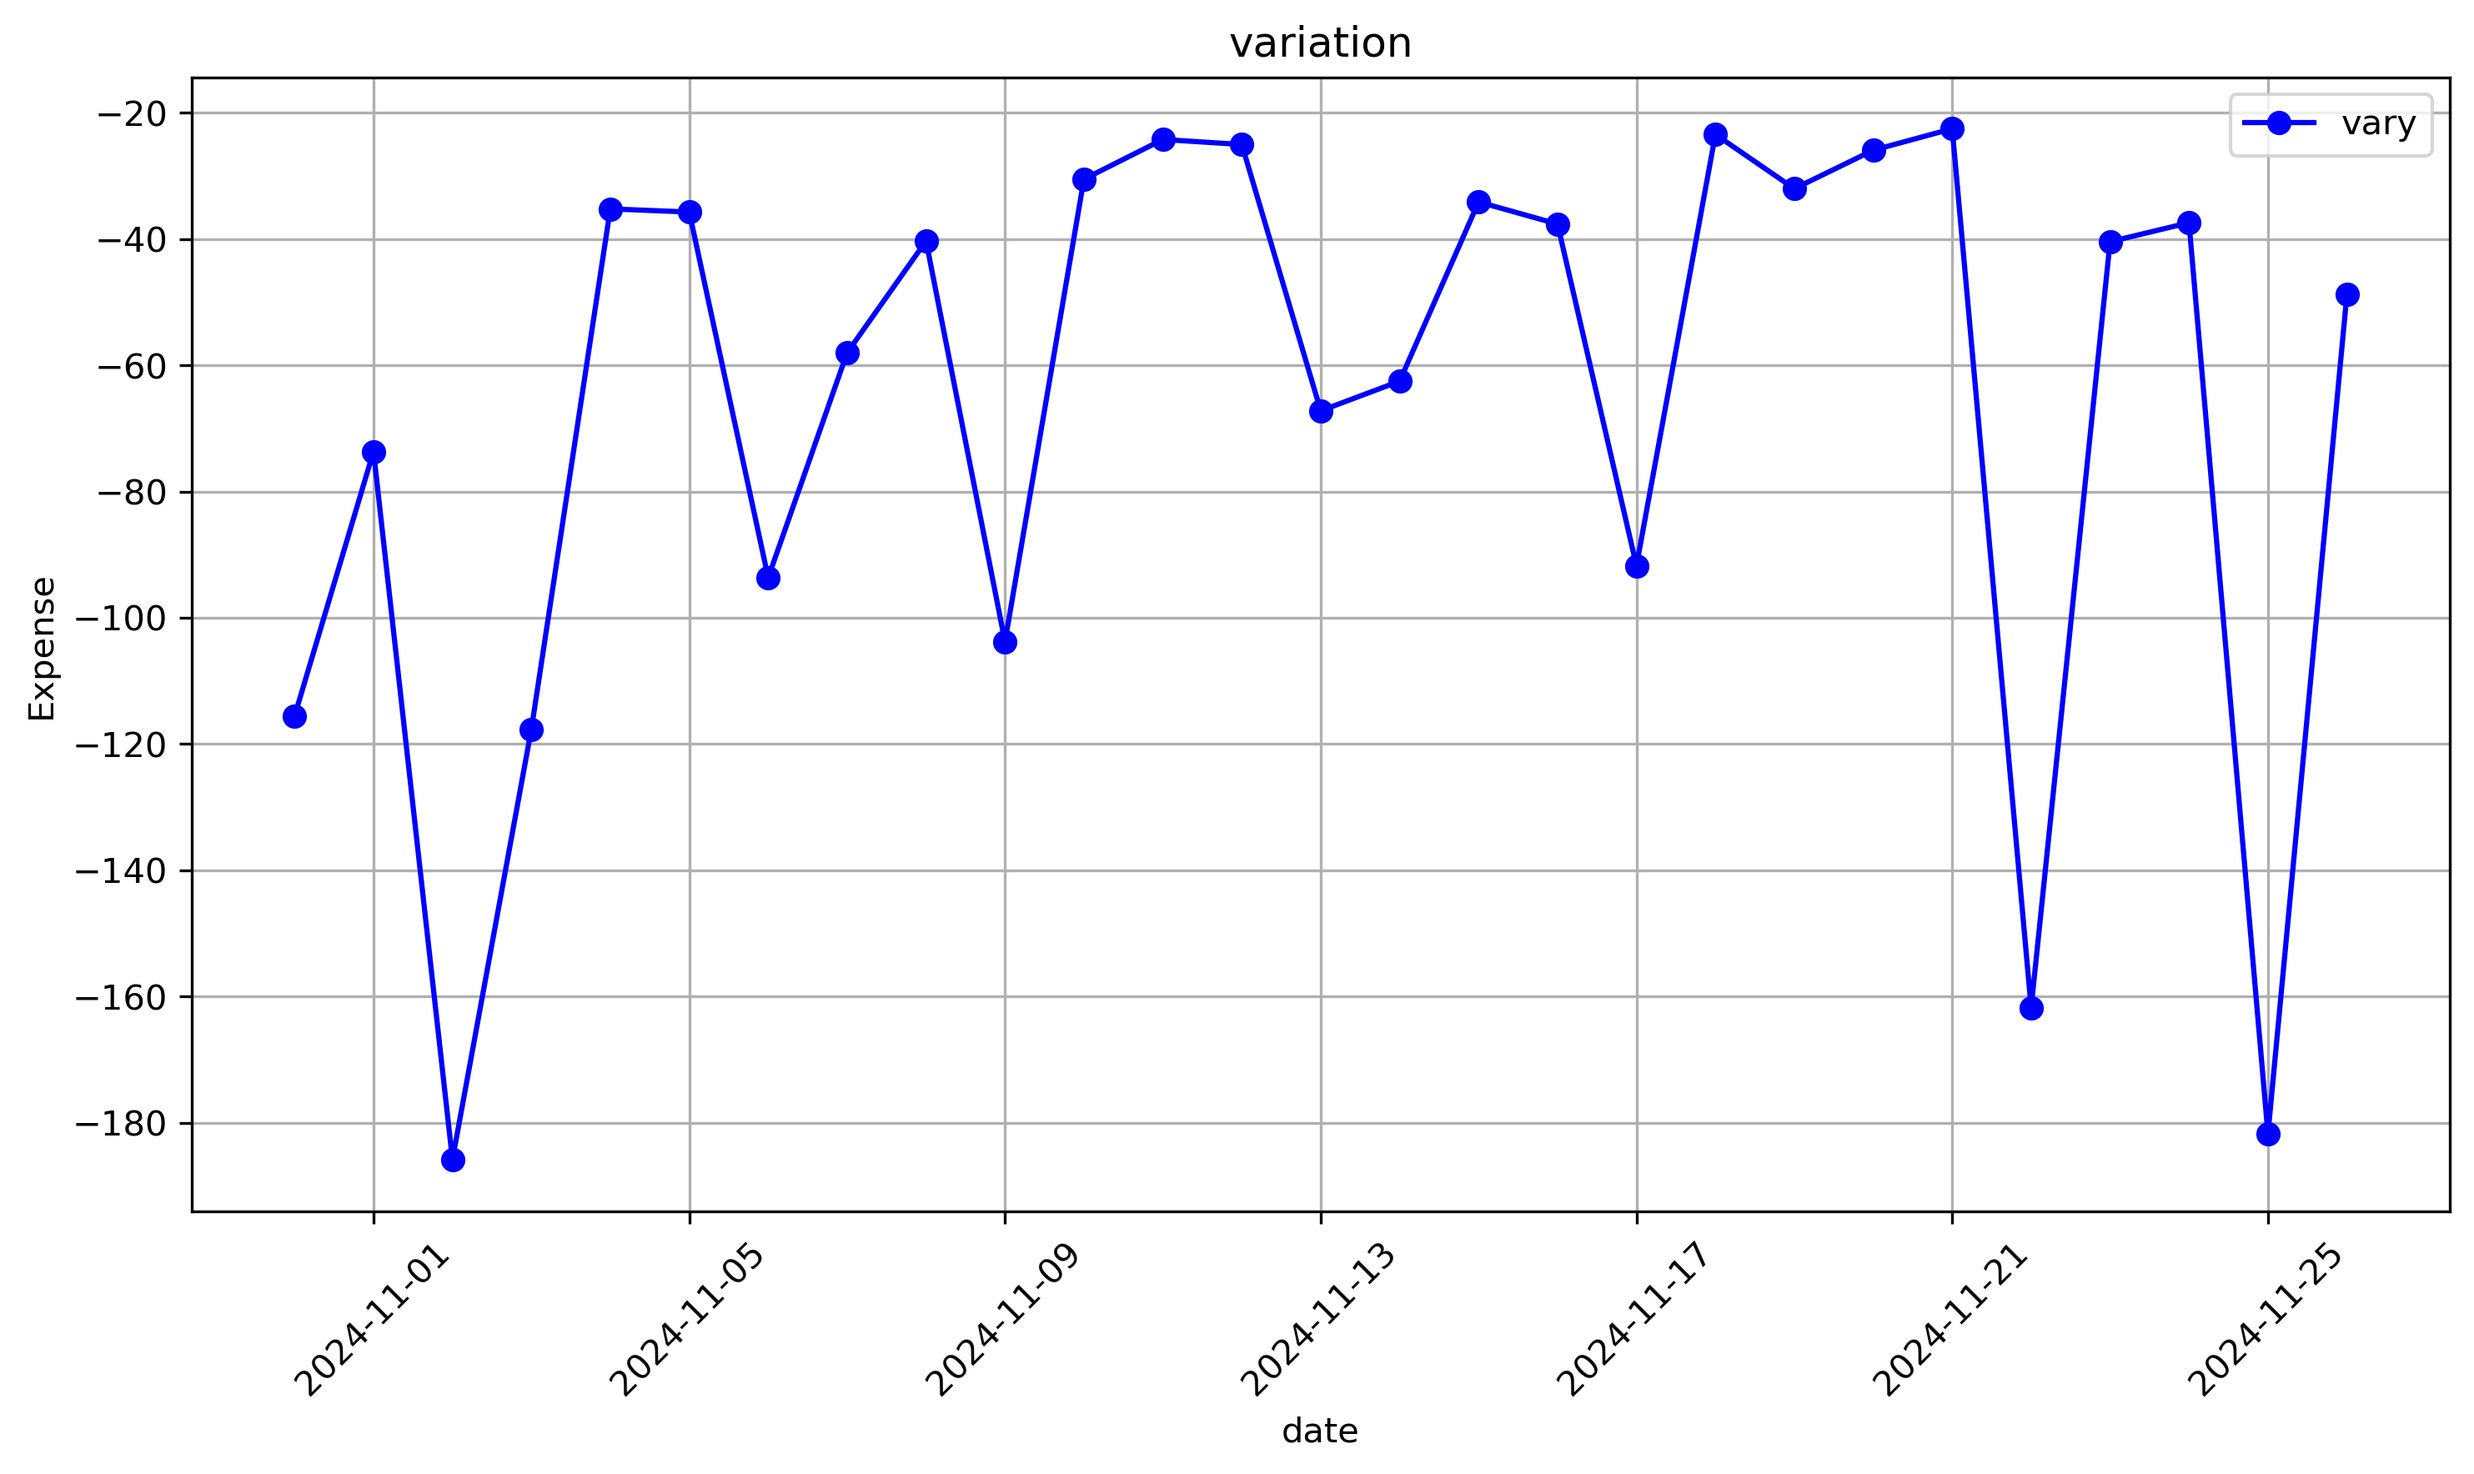
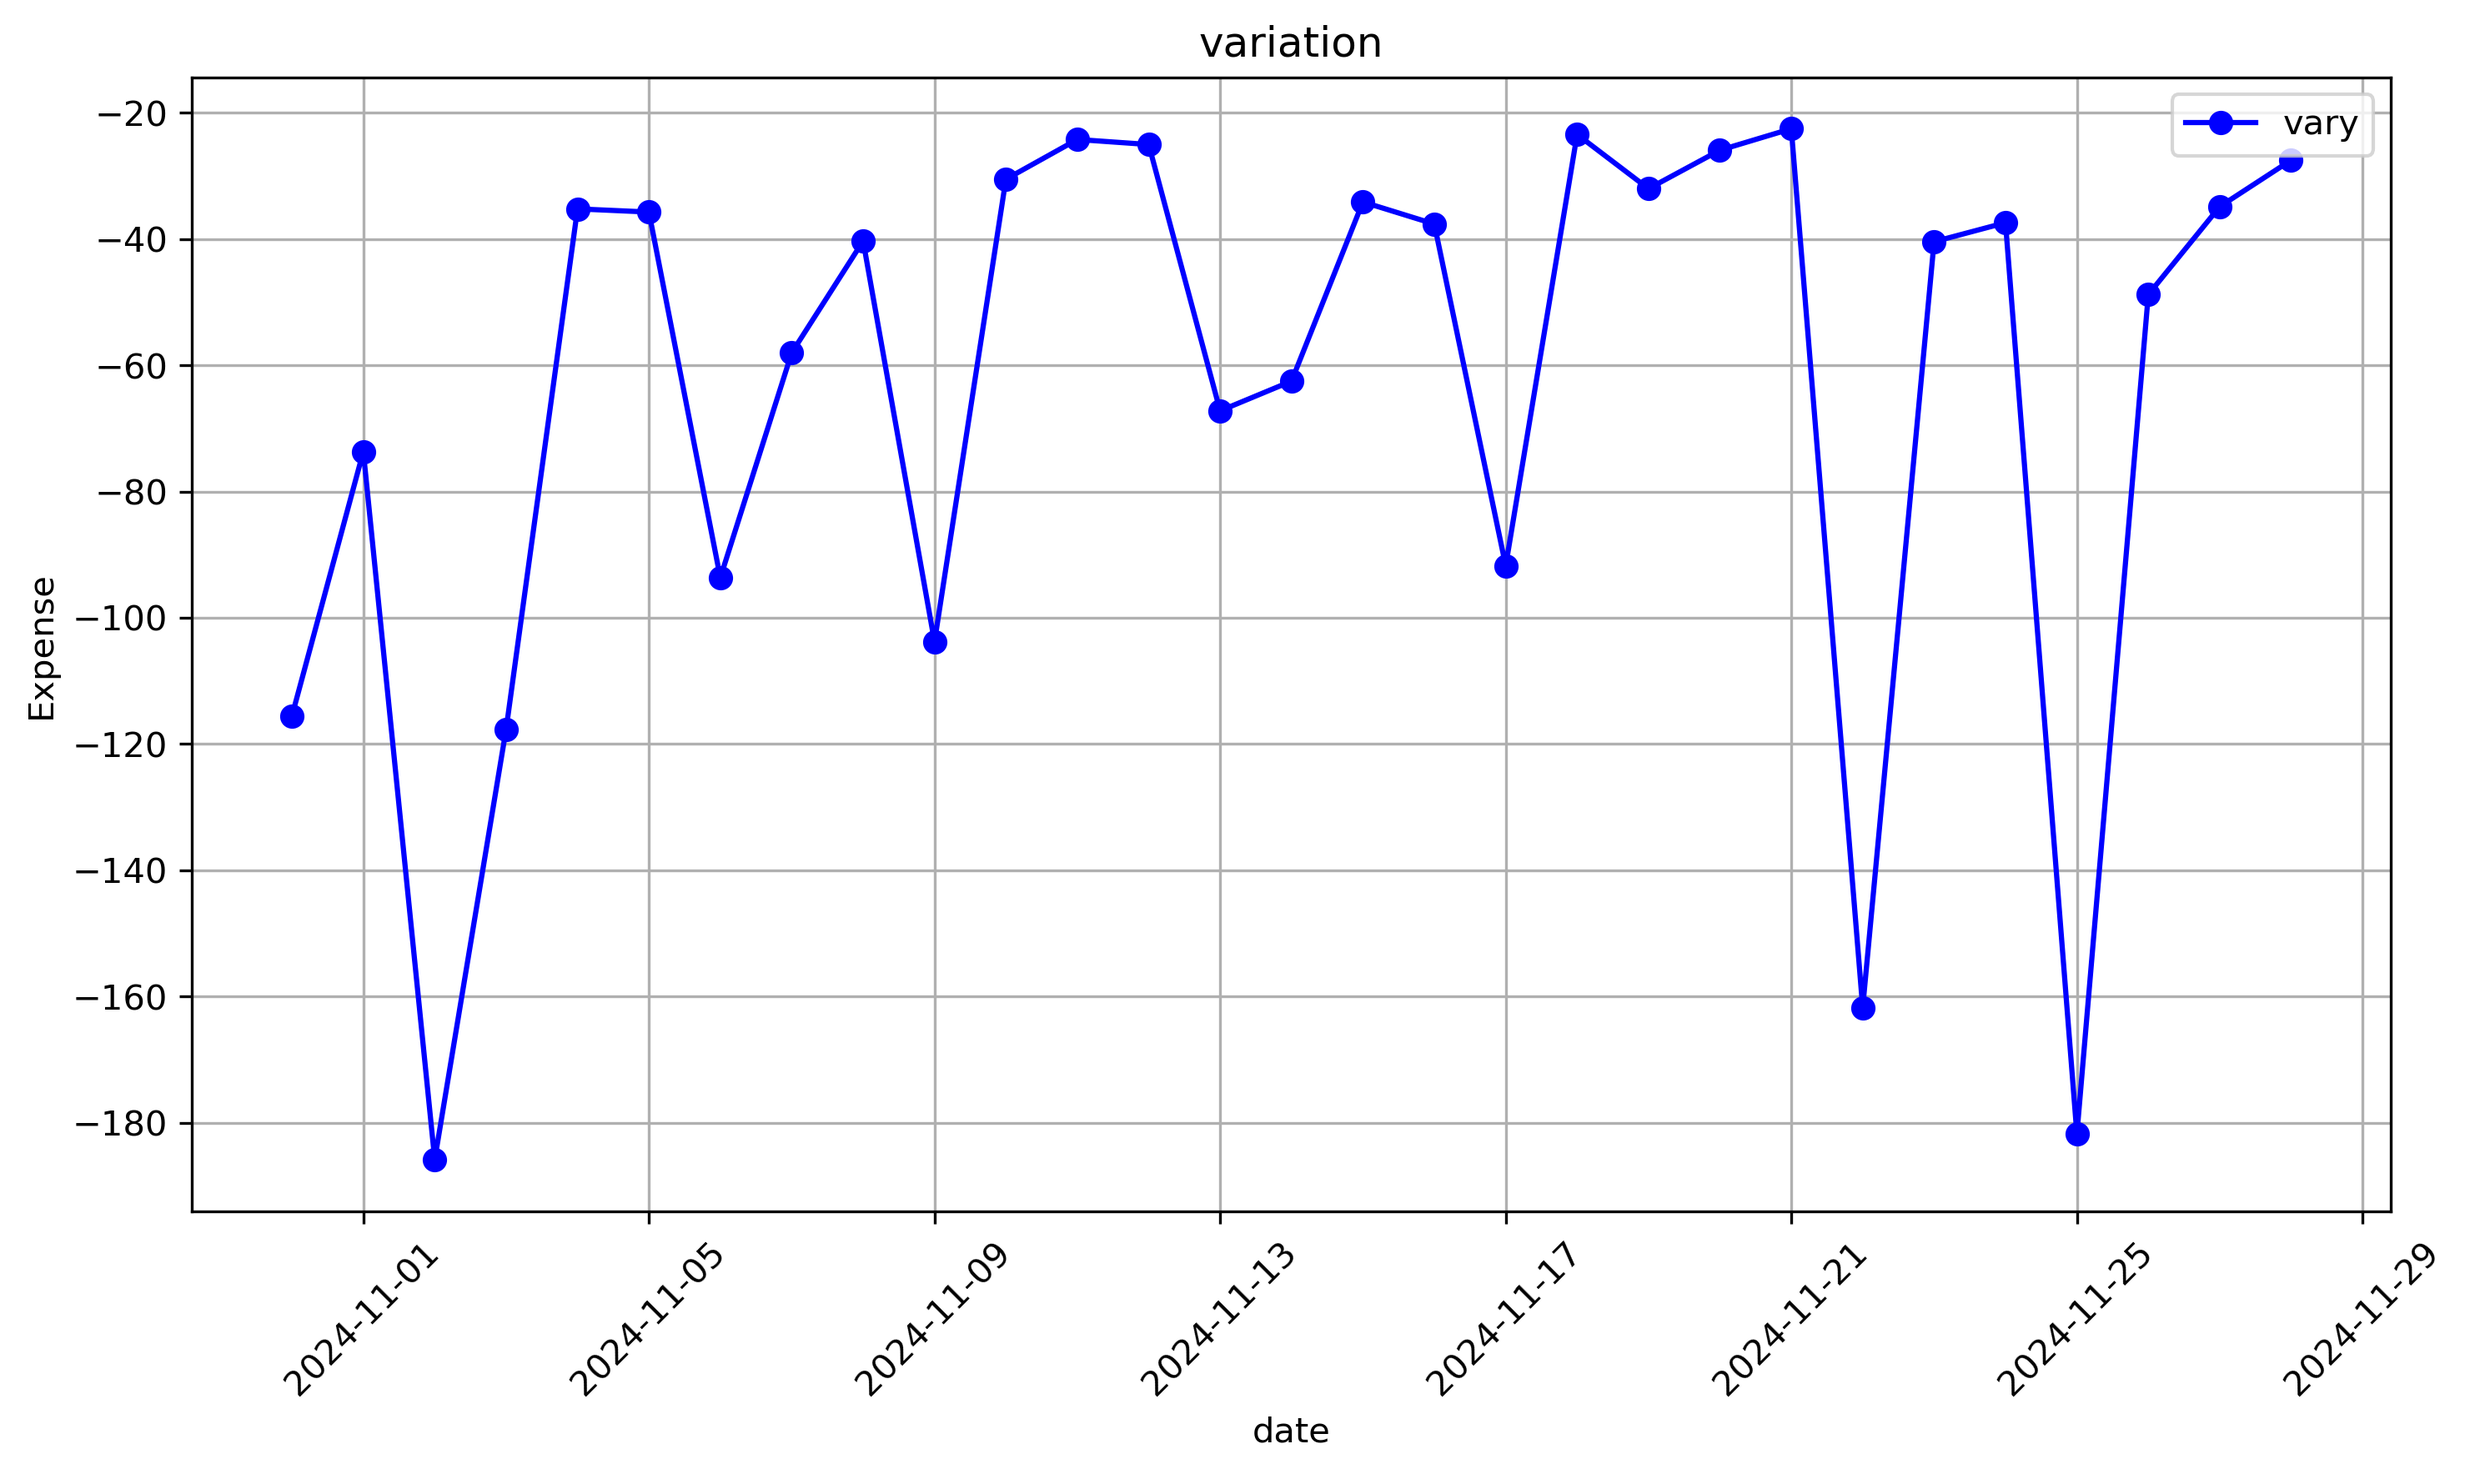
data update 11.29

diff --git a/ExpenseAnalysis/model_predictions.md b/ExpenseAnalysis/model_predictions.md
@@ -4,12 +4,12 @@
 ## 预测值列表
 | 序号 | 预测值 |
 | -------- | ----------------------- |
-| 1    | -19.82806              |
-| 2    | -11.43469              |
-| 3    | -6.13840              |
-| 4    | -7.93140              |
+| 1    | -16.08090              |
+| 2    | -12.31825              |
+| 3    | -10.86690              |
+| 4    | -9.80037              |
     
 ## 统计分析
-- **均值**: -11.33
-- **总体方差**: 27.68
-- **样本方差**: 36.91
+- **均值**: -12.27
+- **总体方差**: 5.65
+- **样本方差**: 7.53

diff --git a/Avg&Var/result.md b/Avg&Var/result.md
@@ -2,8 +2,8 @@
 
 ## 金额（可执行）数据分析
 
-- 平均值: -66.89666666666668
-- 方差: 2397.602038461539
+- 平均值: -64.43241379310345
+- 方差: 2312.221847536946
 
 ## 日期出现次数统计
 
@@ -31,3 +31,5 @@
 | 2024-11-24 |          1 |
 | 2024-11-25 |          1 |
 | 2024-11-26 |          1 |
+| 2024-11-27 |          1 |
+| 2024-11-28 |          1 |
